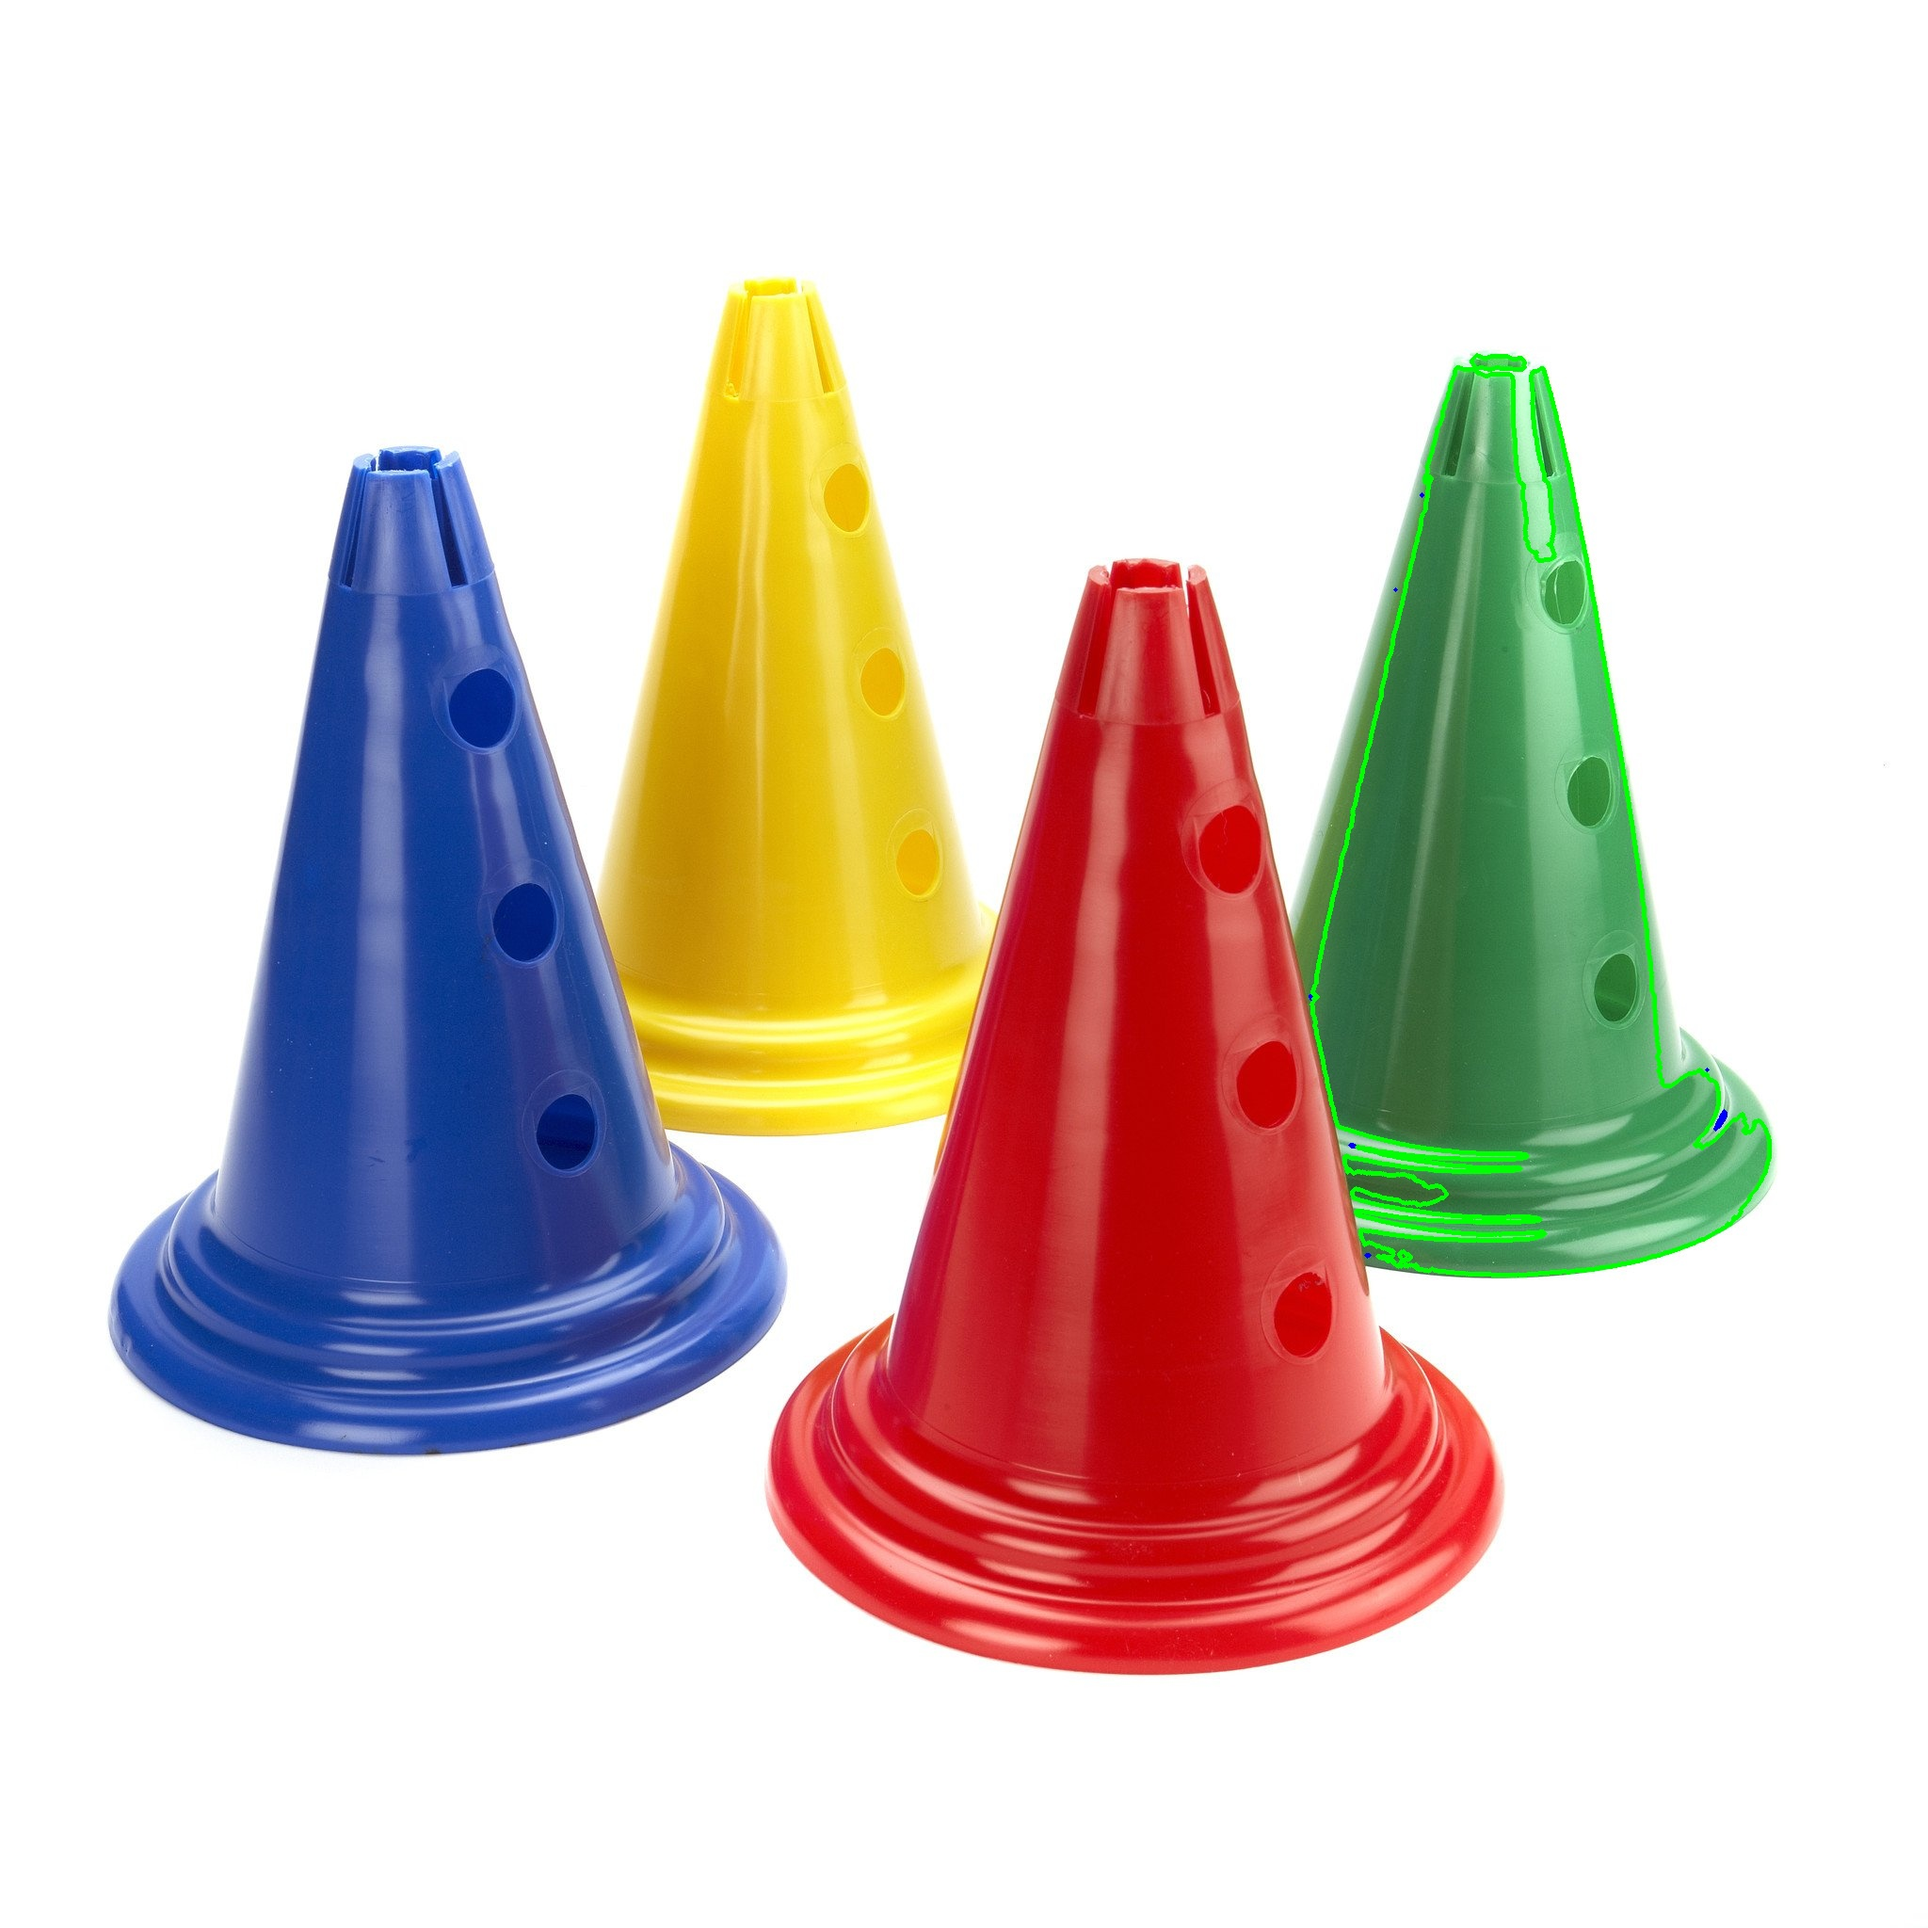
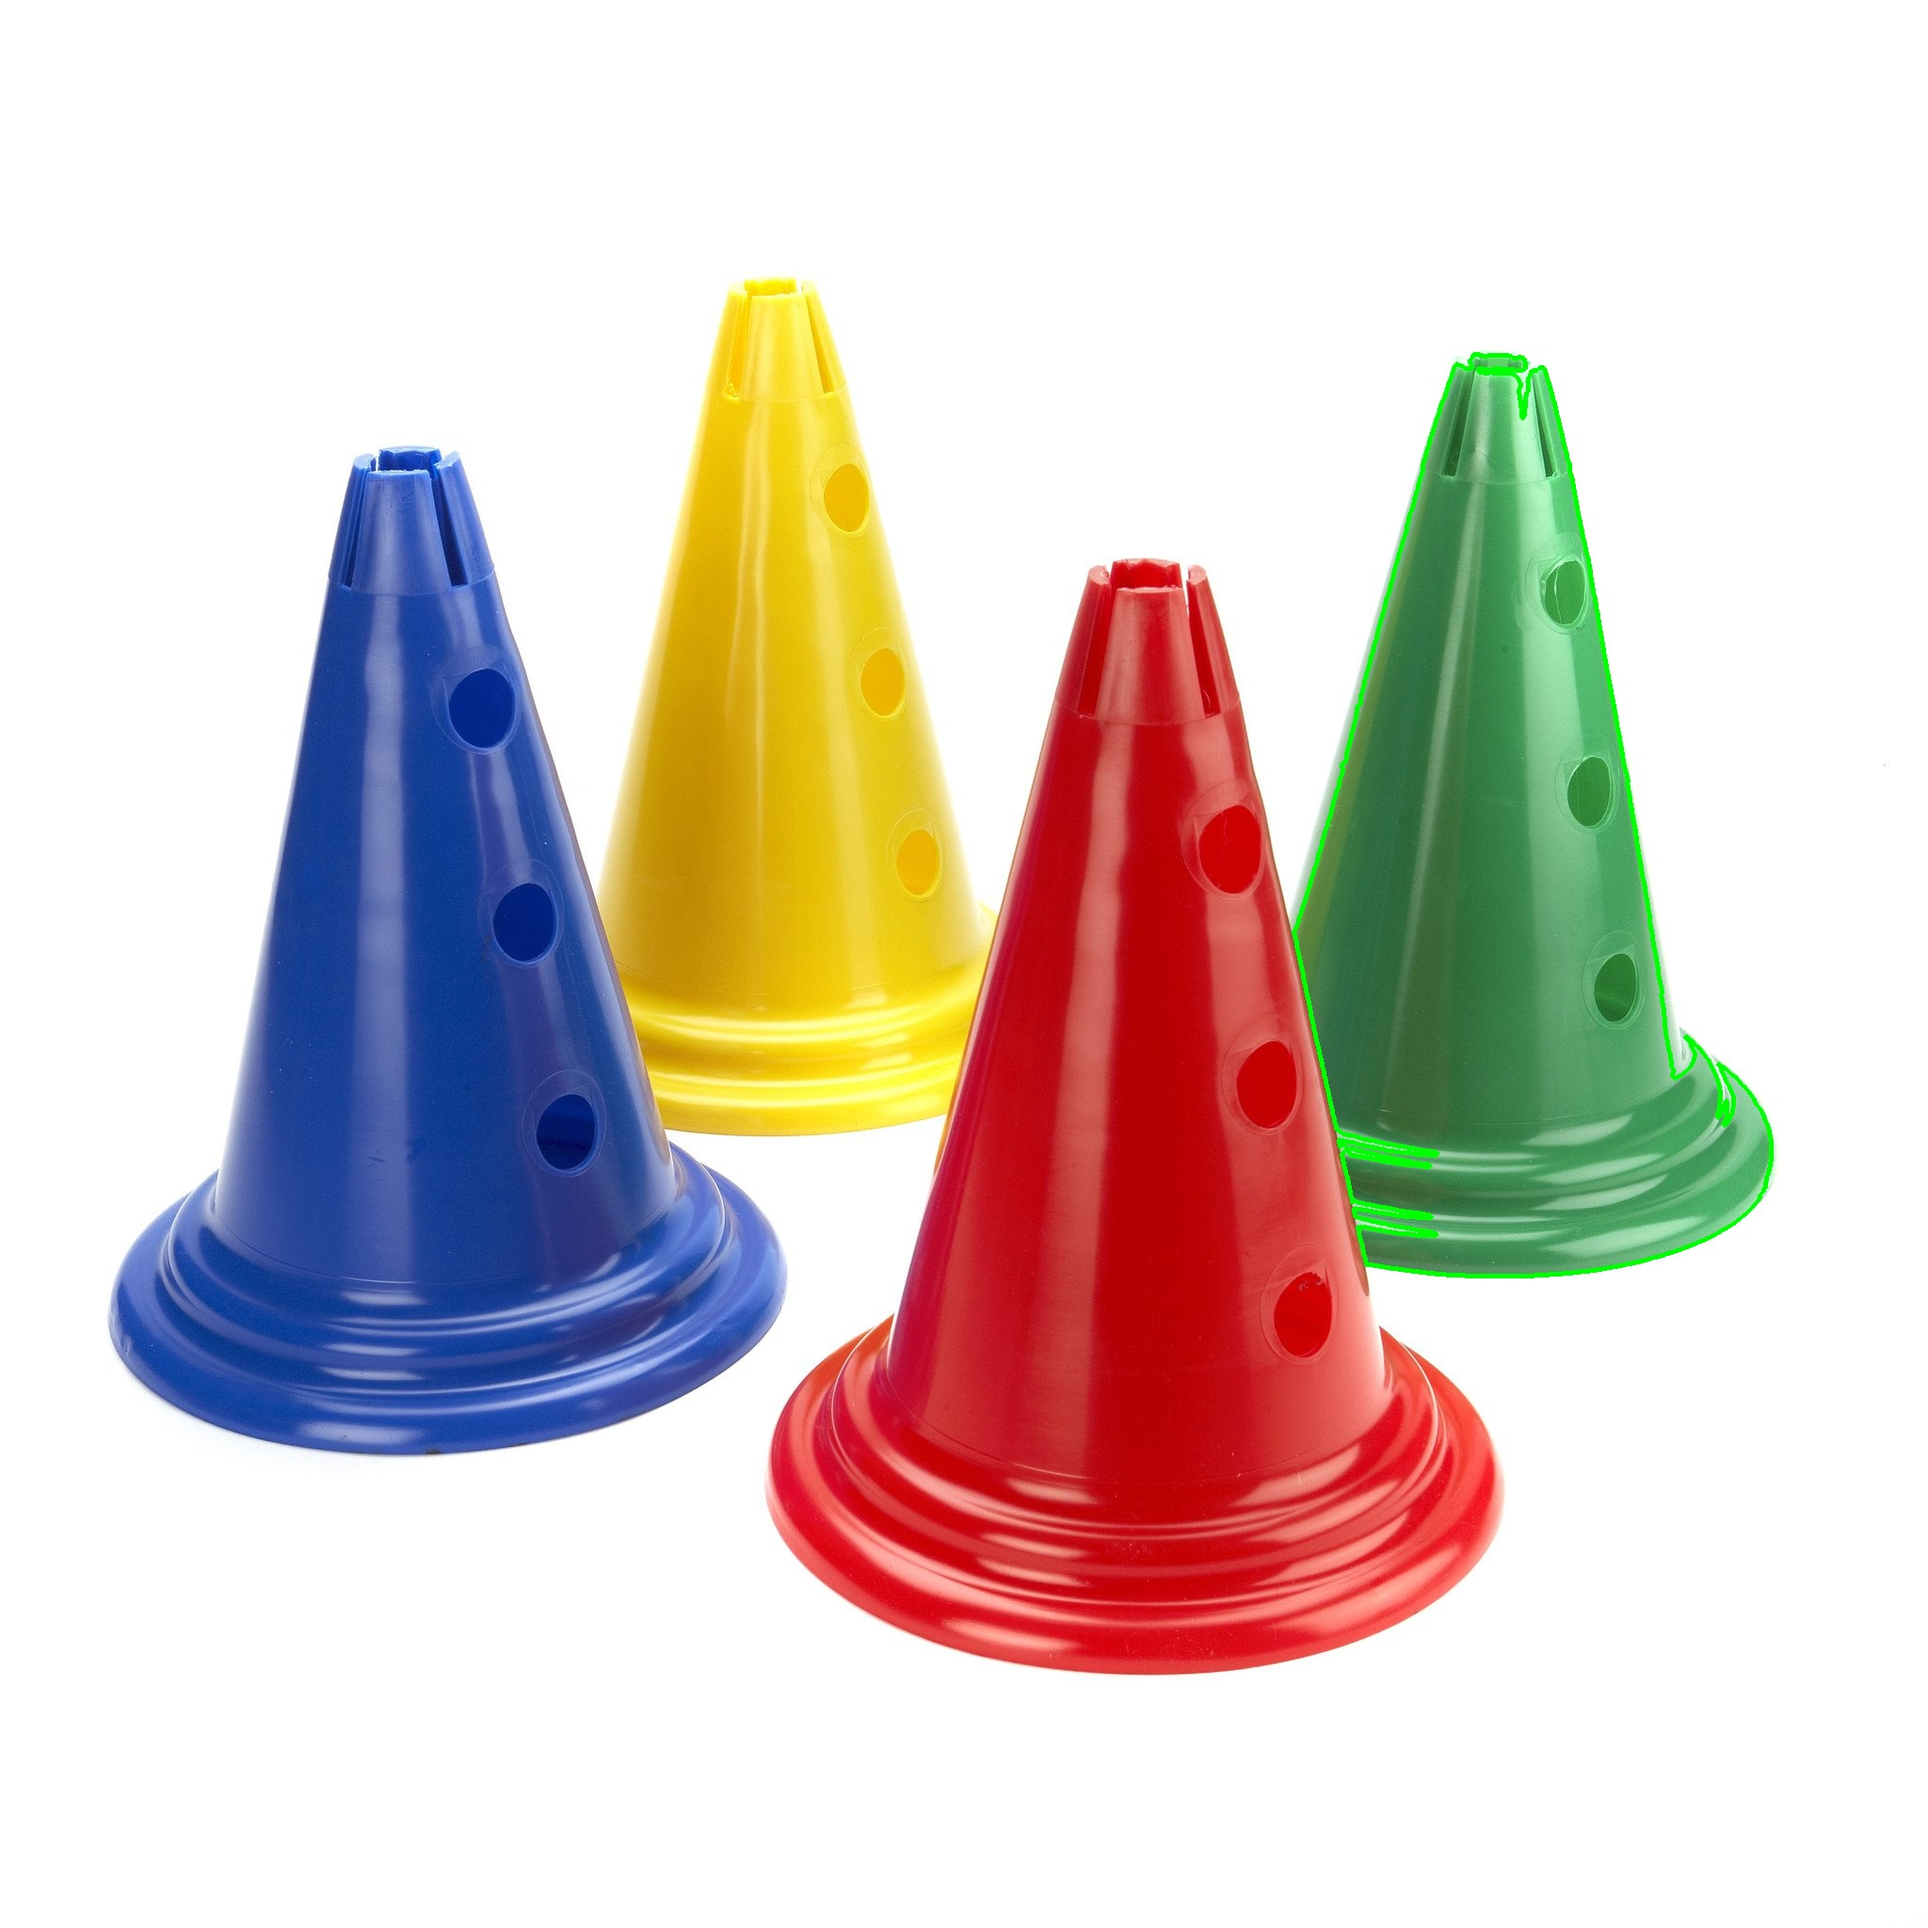
Improved green colour boundaries

diff --git a/MachineVision/findColour.py b/MachineVision/findColour.py
@@ -16,7 +16,7 @@ def findColour(filename, colour):
     wrap_around_upper = np.array([180, 255, 359])
 
     # GREEN COLOUR BOUNDARIES
-    green_lower = np.array([60, 90, 60])
+    green_lower = np.array([40, 60, 60])
     green_upper = np.array([80, 359, 359])
 
     if colour == "red":
@@ -49,4 +49,4 @@ def findColour(filename, colour):
 
 
 if __name__ == "__main__":
-    findColour("./Assets/test3.jpg", "red")
+    findColour("./Assets/test2.jpg", "green")
